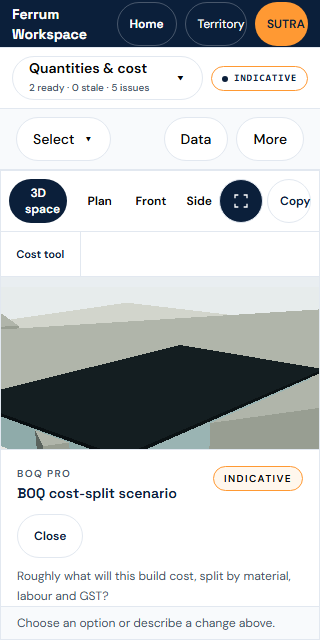
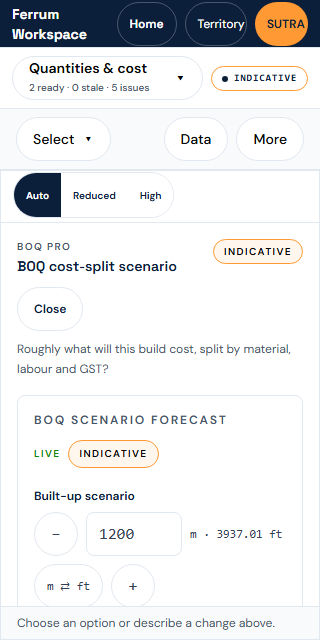
fix: keep in-flow tool toolbar below fixed app bar at 320 [AI: MASON]
Opening the stacked product tool moved focus into the pane, which scrolled the
canvas-first cockpit so the tool/Controls toolbar sat at y23-67 beneath the
fixed header (elementFromPoint hit the header). Keep focus on the trigger for
the in-flow tool, focus other sheets with preventScroll, and add scroll-pt-12.
Adds toolbar-tool-open-hit-audit.mjs (real clicks + hit-tests, 320-1440, all
products, SUTRA open) and refreshes product-tool-split evidence.

diff --git a/apps/web/components/workspace/WorkspaceCockpit.tsx b/apps/web/components/workspace/WorkspaceCockpit.tsx
@@ -424,7 +424,10 @@ export default function WorkspaceCockpit({ initialParameters = defaultParameters
   useEffect(() => {
     if (!mobilePanel) return
     const sheet = document.querySelector<HTMLElement>(`[data-mobile-sheet="${mobilePanel}"]`)
-    sheet?.querySelector<HTMLElement>('button, [href], input, select, textarea, [tabindex]:not([tabindex="-1"])')?.focus()
+    // The in-flow tool retains focus on its trigger: moving focus into the
+    // stacked pane would scroll the canvas-first cockpit beneath the fixed
+    // workspace app bar and make the adjacent task controls untappable.
+    if (mobilePanel !== 'tool') sheet?.querySelector<HTMLElement>('button, [href], input, select, textarea, [tabindex]:not([tabindex="-1"])')?.focus({ preventScroll: true })
     const closeOnEscape = (event: KeyboardEvent) => {
       if (event.key === 'Escape') { event.preventDefault(); closeMobilePanel() }
     }
@@ -438,7 +441,7 @@ export default function WorkspaceCockpit({ initialParameters = defaultParameters
   useEffect(() => { setMobilePanel(null) }, [controlProduct])
 
   return (
-    <section className={`border border-relume-border bg-relume-surface shadow-sm ${canvasFirst ? 'flex h-full min-h-0 flex-col overflow-y-auto' : 'overflow-hidden rounded-relume'} ${fullBleedEmbed ? 'min-h-[70vh]' : ''}`} data-workspace-cockpit data-cockpit-preview={previewLabel} data-canvas-first={canvasFirst || undefined} data-embed-mode={embedMode}>
+    <section className={`border border-relume-border bg-relume-surface shadow-sm ${canvasFirst ? 'flex h-full min-h-0 flex-col overflow-y-auto scroll-pt-12' : 'overflow-hidden rounded-relume'} ${fullBleedEmbed ? 'min-h-[70vh]' : ''}`} data-workspace-cockpit data-cockpit-preview={previewLabel} data-canvas-first={canvasFirst || undefined} data-embed-mode={embedMode}>
       {!canvasFirst && <header className="flex flex-wrap items-center gap-3 border-b border-relume-border px-4 py-3">
         <Link href="/" className="font-heading text-sm font-bold text-relume-command focus-visible:outline focus-visible:outline-2 focus-visible:outline-offset-2 focus-visible:outline-relume-accent" aria-label="Ferrum home">Ferrum</Link>
         <div className="mr-auto">
